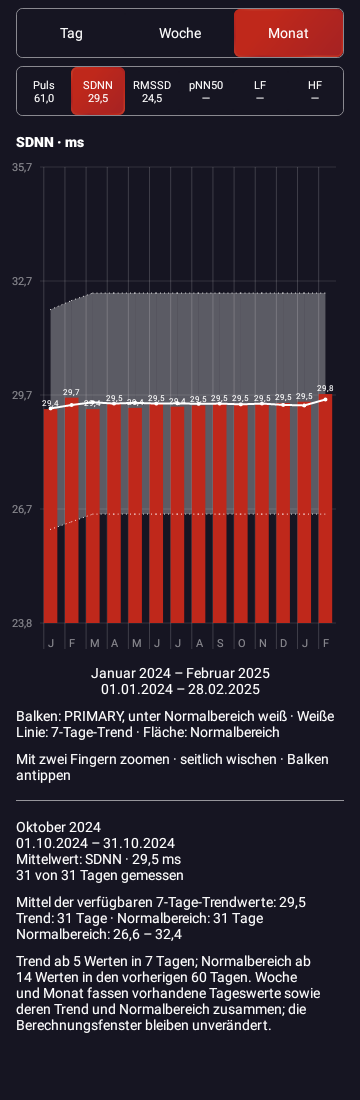
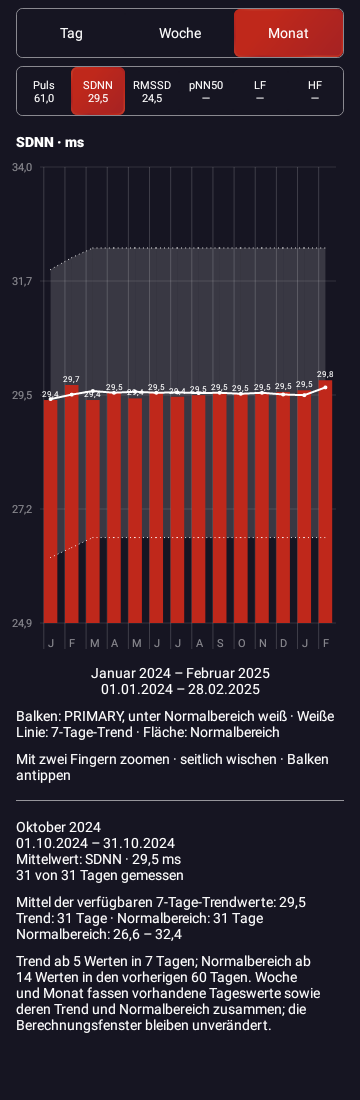
Scale HRV day week and month independently from their full series

Changed region(s): [[0.1222, 0.2164, 0.9472, 0.5255], [0.0611, 0.1236, 0.0917, 0.1545]]

diff --git a/app/src/test/java/de/bcycle/app/HrvTrendPeriodUiTest.kt b/app/src/test/java/de/bcycle/app/HrvTrendPeriodUiTest.kt
@@ -143,10 +143,10 @@ class HrvTrendPeriodUiTest {
             var opened:String?=null
             val view=HrvTrendsView(a,themes,series) { opened=it };a.setContentView(view);layout(view,1100)
             val chart=view.findViewWithTag<HrvTrendChart>("hrv_trend_chart")
-            val axis=chart.axis;var periodTitle="";view.onPeriodSelected={periodTitle=it}
+            var periodTitle="";view.onPeriodSelected={periodTitle=it}
             view.findViewWithTag<View>("hrv_period_MONTH").performClick();layout(view,1100)
             assertEquals(View.GONE,view.findViewWithTag<View>("hrv_trend_detail").visibility)
-            assertTrue(periodTitle.contains("2025"));assertEquals(axis,chart.axis)
+            assertTrue(periodTitle.contains("2025"));assertEquals(HrvTrendAxis.from(HrvTrendAggregation.series(series.getValue(HrvTrendMetric.RMSSD),HrvTrendPeriod.MONTH),HrvTrendMetric.RMSSD),chart.axis)
             val month=LocalDate.of(2024,10,1);val viewport=viewport(chart)
             val x=(40+(HrvTrendPeriod.MONTH.index(month)-(viewport.end-viewport.span))/viewport.span*(chart.width-48)).toFloat()
             val now=android.os.SystemClock.uptimeMillis()
@@ -171,6 +171,34 @@ class HrvTrendPeriodUiTest {
             assertEquals(View.VISIBLE,view.findViewWithTag<View>("hrv_trend_detail").visibility)
             view.findViewWithTag<View>("hrv_trend_detail").performClick();assertTrue(opened!!.startsWith("2024-10"))
         } finally { host.pause().stop().destroy();Locale.setDefault(oldLocale) }
+    }
+    @Test fun eachResolutionUsesItsOwnCompleteSeriesAxisAndKeepsItDuringNavigation() {
+        val host=Robolectric.buildActivity(Activity::class.java).setup()
+        try {
+            val a=host.get()
+            val rows=(0..420).map { i -> row(LocalDate.of(2024,1,1).plusDays(i.toLong()),if(i==120) 300.0 else 40.0,if(i==120) 150.0 else 60.0) }
+            val series=HrvTrendMetric.entries.associateWith { HrvTrends.series(rows,it) }
+            val view=HrvTrendsView(a,ThemeManager(a.getSharedPreferences("period-independent-scale",0)),series) {}
+            a.setContentView(view);layout(view,1100)
+            val chart=view.findViewWithTag<HrvTrendChart>("hrv_trend_chart")
+            for(metric in listOf(HrvTrendMetric.RMSSD,HrvTrendMetric.HR)) {
+                view.findViewWithTag<View>("hrv_trend_${metric.name}").performClick()
+                val daily=HrvTrendAxis.from(series.getValue(metric),metric)
+                for(mode in listOf(HrvTrendPeriod.DAY,HrvTrendPeriod.WEEK,HrvTrendPeriod.MONTH,HrvTrendPeriod.DAY)) {
+                    view.findViewWithTag<View>("hrv_period_${mode.name}").performClick()
+                    val points=HrvTrendAggregation.series(series.getValue(metric),mode)
+                    val expected=HrvTrendAxis.from(points,metric)
+                    assertEquals(expected,chart.axis)
+                    if(mode!=HrvTrendPeriod.DAY) assertTrue(expected.maximum-expected.minimum<daily.maximum-daily.minimum)
+                    val values=points.flatMap { listOfNotNull(it.value,it.average,it.lower,it.upper) }
+                    assertTrue(values.all { it>=expected.minimum && it<=expected.maximum })
+                    chart.performAccessibilityAction(HrvTrendChart.ZOOM_IN,null)
+                    viewport(chart).pan(-20.0)
+                    chart.performAccessibilityAction(android.view.accessibility.AccessibilityNodeInfo.ACTION_SCROLL_BACKWARD,null)
+                    assertEquals(expected,chart.axis)
+                }
+            }
+        } finally { host.pause().stop().destroy() }
     }
     @Test fun runningPeriodReportsElapsedDaysAndUnavailableMetricHasNoInventedValue() {
         val host=Robolectric.buildActivity(Activity::class.java).setup()

diff --git a/app/src/main/java/de/bcycle/app/HrvTrendsView.kt b/app/src/main/java/de/bcycle/app/HrvTrendsView.kt
@@ -14,7 +14,7 @@ internal class HrvTrendsView(context:Context,private val themes:ThemeManager,ser
     var onPeriodSelected:(String)->Unit={}
     private val series=series
     private val grouped=mutableMapOf<Pair<HrvTrendPeriod,HrvTrendMetric>,List<HrvTrendPoint>>()
-    private val axes=HrvTrendMetric.entries.associateWith { HrvTrendAxis.from(series.getValue(it),it) }
+    private val axes=mutableMapOf<Pair<HrvTrendPeriod,HrvTrendMetric>,HrvTrendAxis>()
     private val metricButtons=linkedMapOf<HrvTrendMetric,BicycleSegmentButton>()
     private var metric=HrvTrendMetric.RMSSD
     private var resolution=HrvTrendPeriod.DAY
@@ -113,6 +113,7 @@ internal class HrvTrendsView(context:Context,private val themes:ThemeManager,ser
             selected=null;detail.text="";statistics.text="";statistics.visibility=GONE
             metricButtons.forEach { (candidate,choice) -> choice.text=context.getString(candidate.label)+"\n"+context.getString(R.string.hrvt_unavailable) }
         }
-        chart.show(points,reset,axes.getValue(metric),resolution,anchor)
+        val axis=axes.getOrPut(resolution to metric) { HrvTrendAxis.from(points,metric) }
+        chart.show(points,reset,axis,resolution,anchor)
     }
 }

diff --git a/docs/hrv-periods.md b/docs/hrv-periods.md
@@ -10,7 +10,7 @@ Umschaltung oberhalb der bestehenden Kennzahlenauswahl. Jede neue Auswertungssei
 - Korridor: untere und obere Grenze der vorhandenen **täglich berechneten** Normalbereiche jeweils mitteln, über dieselben Tage mit vorhandenem Grenzenpaar. Tägliche Basis bleibt die Stichprobenstreuung der vorherigen 60 Kalendertage, ab 14 Werten, ohne aktuellen Tag. Kein neuer Referenzbereich aus Wochen-/Monatsmitteln, kein Konfidenzintervall und keine 7-Wochen-/7-Monats-Glättung.
 - Die Periodenmittel verwenden alle gültigen Tage, Trend und Korridor jeweils nur die Tage mit verfügbarer Statistik. Messtage, Trendtage und Referenztage stehen deshalb bei der Auswahl. Frühere Werte dürfen weiterhin nötig sein, um den täglichen Trend zu bestimmen.
 - Laufende Woche/Monat: „bisher“, Zeitraum endet beim heutigen Tag; Nenner der Messtage zählt nur bereits vergangene Tage einschließlich heute. Ein einzelner Messtag ist darstellbar, aber über die Tagesanzahl als dünne Datenbasis erkennbar. Keine erfundene Mindestanzahl für Wochen-/Monatsmittel.
-- Feste Y-Achse je Kennzahl weiterhin aus dem kompletten Tagesbestand inklusive Trend und Grenzen; auch der Auflösungswechsel ändert sie nicht. Alle zusammengefassten Werte liegen innerhalb dieser Grenzen.
+- Eigene feste Y-Achse je Kennzahl und Auflösung aus deren komplettem Bestand inklusive Trend und Grenzen. Woche/Monat nutzen ihre aggregierten Werte statt der Tagesextrema. Scrollen/Zoomen ändert sie nicht; beim Auflösungswechsel wird die passende Skala wiederhergestellt. Reserve wie bisher: Puls5bpm, sonst5%, Untergrenze mindestens0.
 - Balken unter ihrer vorhandenen zusammengefassten Untergrenze bleiben weiß, sonst PRIMARY; rein beschreibend, keine neue Readiness-/Trainingsempfehlung. Fehlende Perioden werden nicht überbrückt. RMSSD wird in seiner angezeigten Einheit gemittelt; kein implizites Logarithmieren oder neue lnRMSSD-Kennzahl.
 
 ## Kalender und Darstellung

diff --git a/docs/CONTINUE-HERE.md b/docs/CONTINUE-HERE.md
@@ -1,3 +1,7 @@
+# Nach Build98: Eigene Y-Skalen für HRV Tag/Woche/Monat
+
+HrvTrendsView cached Achsen jetzt je Auflösung UND Kennzahl aus deren vollständigen Punkten statt Tagesachsen für alle Ansichten. Aggregierte Balken, Trend und Korridor bestimmen Wochen-/Monatsskala, bestehende5bpm-/5%-Reserve erhalten. Keine Änderung an Daten/Aggregation/Referenzfenstern. Pan/Zoom verändern Skala nicht, Umschalten stellt passende Achse wieder her. Neun gezielte native Fälle grün: HrvTrendPeriodUiTest6 und HrvChartScrollingTest3, Log /workspace/.tools/hrv-period-separate-axis-tests.log. Neuer Test mit Tagesausreißer prüft getrennte engere Aggregatachsen, vollständige Einbeziehung aller gezeichneten Werte, Rückkehr zu Tagesachse und Stabilität bei Zoom/Pan für RMSSD/Puls. Native Monatsbilder aktualisiert; Typografie/Atlas/Diff erfolgreich. Keine Gesamtsuite oder Telefonprüfung. Alle Änderungen nach Build98 bleiben für nächste APK enthalten, kein neuer APK-Auftrag; letzter Download0.8.57/Build98.
+
 # Nach Build98: HRV-Korridorfüllung dezenter
 
 Weiße Korridorfüllung von30% auf15% Deckkraft reduziert. Begrenzungslinien unverändert. Gemeinsames zentrales Token gilt für Tag/Woche/Monat und beide Designs. Reine Tokenänderung, keine zusätzlichen Tests; Typografie/Atlas/Diff erfolgreich geprüft; generierten Atlas aktualisiert. Statistik-Skalenänderung ausb4cfe2b bleibt für nächste APK enthalten. Kein neuer APK-Auftrag, letzte veröffentlichte0.8.57/Build98.
